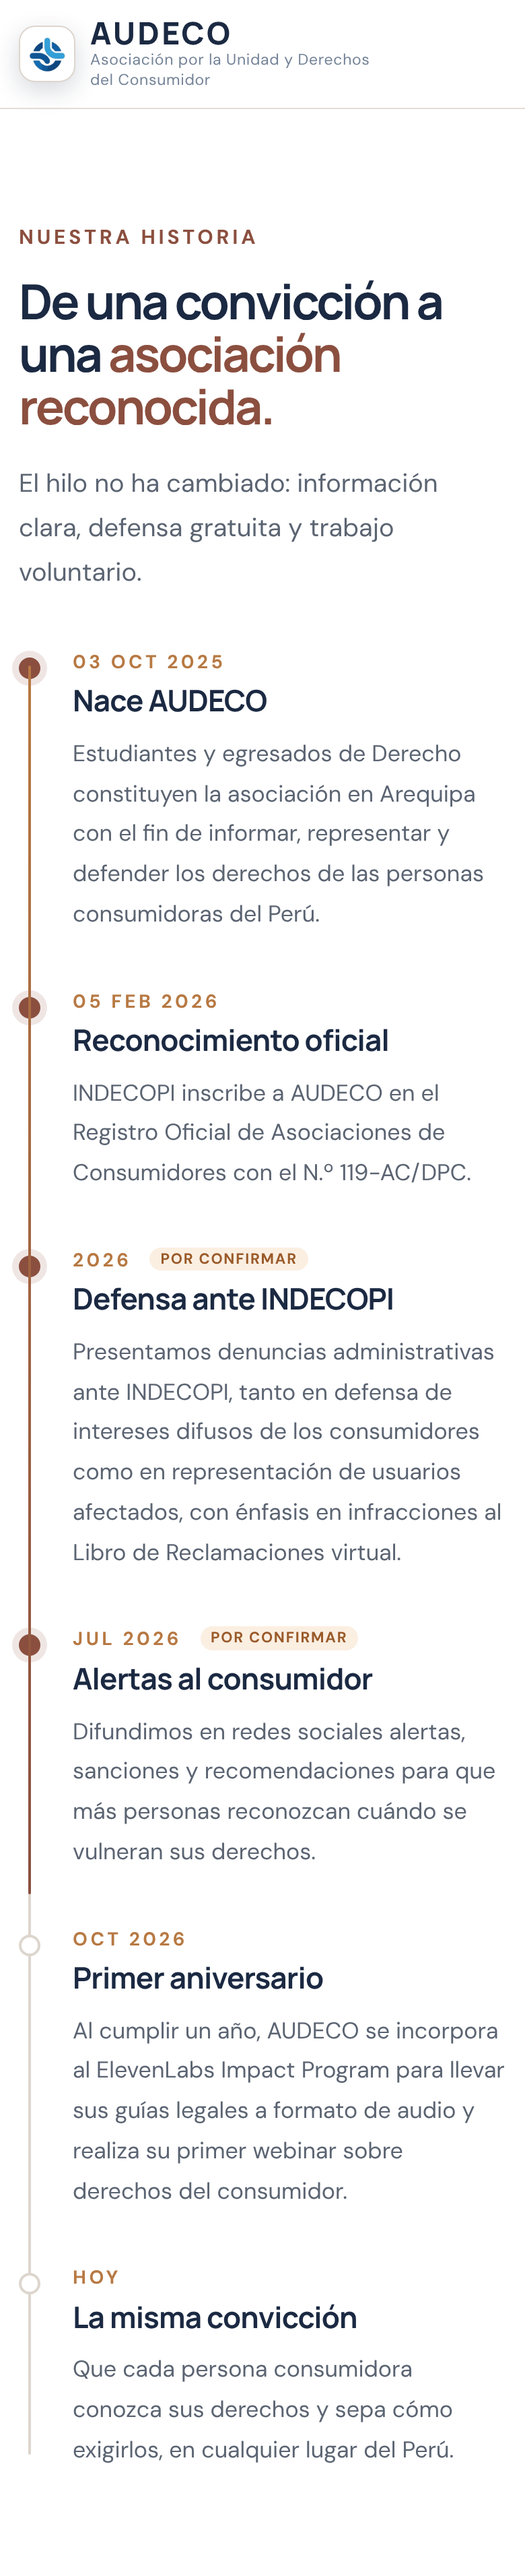
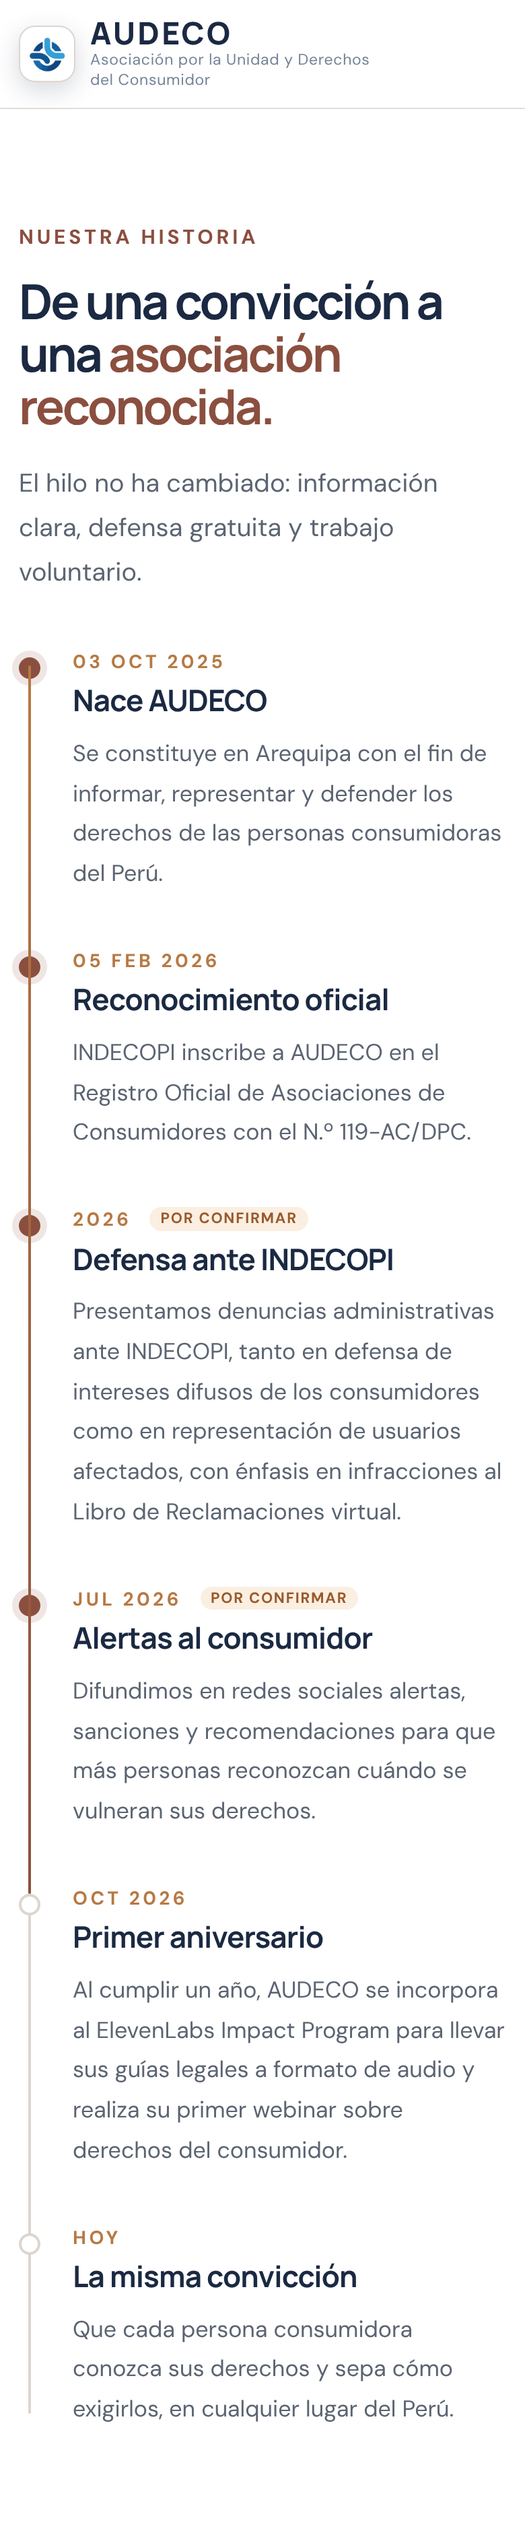
Línea de tiempo: nuevo texto del hito «Nace AUDECO»
Claude-Session: https://claude.ai/code/session_01TsA8F1WKoMKE9ZTKAdYhqp

diff --git a/.github/ideas/linea-de-tiempo/prototipo.html b/.github/ideas/linea-de-tiempo/prototipo.html
@@ -201,9 +201,8 @@
             <time datetime="2025-10-03">03 oct 2025</time>
             <h3>Nace AUDECO</h3>
             <p>
-              Estudiantes y egresados de Derecho constituyen la asociación en
-              Arequipa con el fin de informar, representar y defender los
-              derechos de las personas consumidoras del Perú.
+              Se constituye en Arequipa con el fin de informar, representar y
+              defender los derechos de las personas consumidoras del Perú.
             </p>
           </li>
 

diff --git a/.github/ideas/linea-de-tiempo/README.md b/.github/ideas/linea-de-tiempo/README.md
@@ -1,6 +1,6 @@
 # Idea en standby: línea de tiempo «Nuestra historia»
 
-Estado: **en pausa** (03/11/2026). Pendiente de datos antes de pasarla a `nosotros.html`.
+Estado: **textos listos, esperando el «go»** (03/11/2026) para pasarla a `nosotros.html`.
 
 Referencia de diseño: sección «Our story» de getbable.com/about, adaptada a la paleta de AUDECO (azul marino y terracota, fondo claro).
 
@@ -26,9 +26,9 @@ La carpeta `.github/` no se publica en GitHub Pages, por lo que nada de esto apa
 - En celular: una sola columna, sin columna fija.
 - Las etiquetas «POR CONFIRMAR» existen solo en la maqueta.
 
-## Textos (versión 2, con las correcciones del 03/11/2026)
+## Textos (versión 3, con las correcciones del 03/11/2026)
 
-1. **03 OCT 2025 · Nace AUDECO.** Estudiantes y egresados de Derecho constituyen la asociación en Arequipa con el fin de informar, representar y defender los derechos de las personas consumidoras del Perú.
+1. **03 OCT 2025 · Nace AUDECO.** Se constituye en Arequipa con el fin de informar, representar y defender los derechos de las personas consumidoras del Perú.
 2. **05 FEB 2026 · Reconocimiento oficial.** INDECOPI inscribe a AUDECO en el Registro Oficial de Asociaciones de Consumidores con el N.º 119-AC/DPC.
 3. **2026 · Defensa ante INDECOPI.** Presentamos denuncias administrativas ante INDECOPI, tanto en defensa de intereses difusos de los consumidores como en representación de usuarios afectados, con énfasis en infracciones al Libro de Reclamaciones virtual.
 4. **JUL 2026 · Alertas al consumidor.** Difundimos en redes sociales alertas, sanciones y recomendaciones para que más personas reconozcan cuándo se vulneran sus derechos.
@@ -37,7 +37,7 @@ La carpeta `.github/` no se publica en GitHub Pages, por lo que nada de esto apa
 
 ### Correcciones ya aplicadas
 
-- Hito 1: se quitaron la partida registral y el RUC; se agregó el fin de la constitución.
+- Hito 1: se quitaron la partida registral, el RUC y la mención a «estudiantes y egresados de Derecho»; se agregó el fin de la constitución.
 - Hito 3: ya no dice «primeras denuncias»; incluye intereses difusos y representación de usuarios.
 - Hito 6: se quitó «siete personas ad honorem, correo institucional y servicio gratuito».
 
